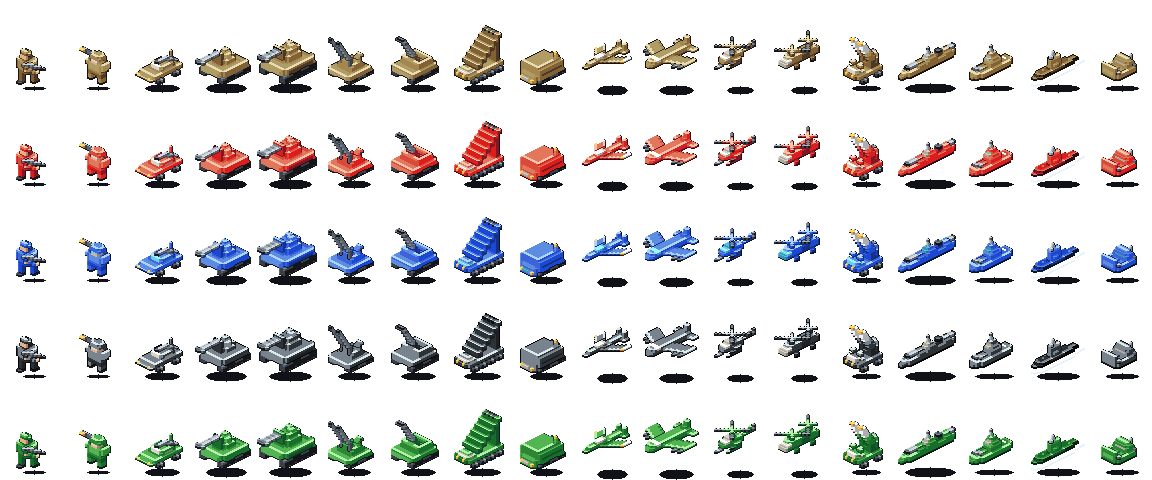
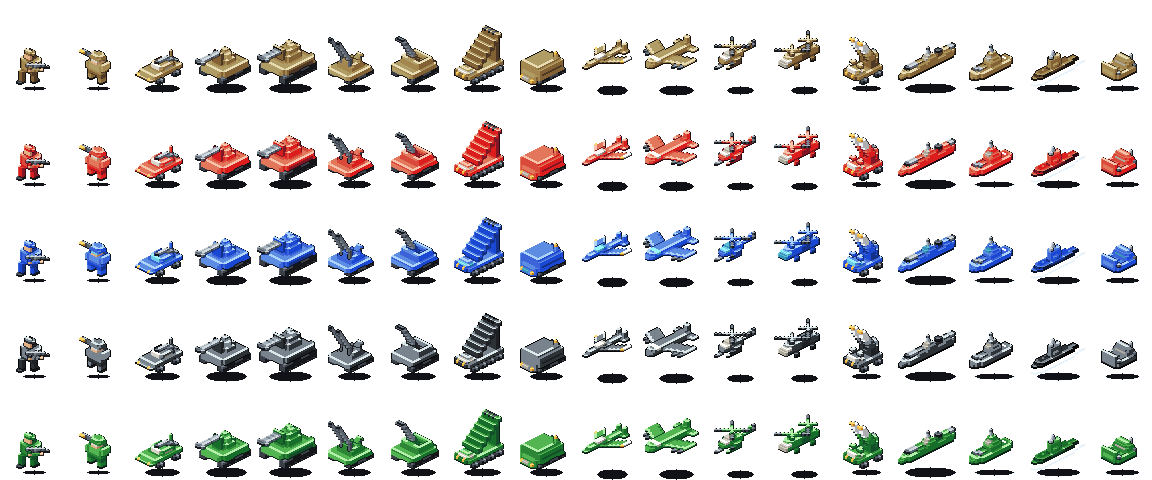
Give the two foot figures a whole-texel idle
The rifleman and the rocket trooper were the last sub-texel poses on the
sheet: a one-voxel muzzle ease and a one-voxel tube settle, worth half a
rung-1 texel each and measured at 2 changed silhouette texels. The rifleman
now leans his entire upper body — belt line up, rifle and both hands riding
the shoulders — one (dx +1, dy -1) step back over the trailing boot while
the boots and legs stay planted (2 -> 12 texels at rung 1), and the trooper's
left pauldron drops dz = -2 under its launcher (2 -> 7).

The rifleman leans instead of compressing because a dz = -2 on the same
assembly costs him 4 px of height and 64 opaque pixels, under the floors
his own read tests hold. Pose A is untouched, byte for byte.

AmbientFrames now asks the three-texel question of all ten land units
instead of the eight vehicles.

diff --git a/spritegen/units.py b/spritegen/units.py
@@ -217,6 +217,11 @@ def infantry(pose: Pose = Pose.A) -> Model:
     earlier draft put the sleeve and hands one screen row higher, where they
     ate the bottom of the bar, and the 4:1 sample lost the weapon entirely at
     two phases in sixteen.
+
+    Pose A is byte-frozen; pose B leans the whole upper body one board texel
+    over planted boots — 12 changed silhouette texels at rung 1 against the
+    2 the old rifle-only settle scored. See the branch below for why the lean
+    is diagonal rather than a drop.
     """
     m = Model()
     # Full stride: the boots are two voxels apart on BOTH axes, which opens a
@@ -281,17 +286,39 @@ def infantry(pose: Pose = Pose.A) -> Model:
     m.chamfer(2, 6, 4, 6, 15, 15)
     m.box(3, 5, 6, 6, 16, 16, "body")  # crest
     if pose is Pose.B:
-        # weight shifts onto the trailing boot and the muzzle eases down:
-        # barrel, muzzle, forward sleeve and forward hand all drop a voxel
-        # together, so the hold changes rather than the whole man sliding.
-        _shift(m, (9, 11, 3, 6, 9, 11), dz=-1)
+        # The beat is the man shifting his weight, and it is a WHOLE board
+        # texel. Everything from the belt line up — torso, both arms, the
+        # shoulder line, backpack, neck, head, helmet, crest, and the whole
+        # rifle line with both hands still on it — takes one `(dx +1, dy -1)`
+        # diagonal step while the boots and legs stay planted, which carries
+        # the weight back over the trailing boot: the figure leans as one
+        # body and the weapon travels with the shoulders rather than waggling
+        # on its own.
+        #
+        # The lean is along the diagonal rather than down the z axis on
+        # purpose. A `dz = -2` compression of the same assembly is the same
+        # one texel, but it costs the man his height and his mass: measured
+        # 33 px tall and 619 opaque against pose A's 37 and 683, which is
+        # under this sprite's own floor (`tests/test_infantry_read.py`
+        # MIN_HEIGHT 34, MIN_PIXELS 640). The diagonal step moves the same
+        # texel for free — 689 opaque in the same 37 px box.
+        #
+        # Rung-1 silhouette texels, pose A against pose B: 2 before (the old
+        # rifle-only one-voxel settle, half a texel and inside the shape),
+        # 12 now; rung 2 goes 8 -> 45 (`tests/measure_motion.py`).
+        _shift(m, (1, 11, 2, 8, 6, 16), dx=1, dy=-1)
     return m
 
 
 def mech(pose: Pose = Pose.A) -> Model:
     """Rocket trooper: planted wide stance, heavy pauldrons over a bulky
     torso, and a fat launch tube climbing forward over the left shoulder —
-    taller, wider and squarer than the rifleman's stride (rocket)."""
+    taller, wider and squarer than the rifleman's stride (rocket).
+
+    Pose B leans the loaded tube in a whole board texel: the left pauldron
+    and everything it carries ride `dz = -2`, measured at 7 changed
+    silhouette texels at rung 1 against the 2 the old one-voxel settle
+    scored."""
     m = Model()
     # wide planted stance, two-voxel-thick armoured legs
     for x0 in (1, 6):
@@ -327,9 +354,15 @@ def mech(pose: Pose = Pose.A) -> Model:
     m.set(1, 9, 16, "amber")
     m.box(1, 1, 5, 5, 9, 11, "hull")  # supporting arm
     if pose is Pose.B:
-        # the loaded tube leans in: the left pauldron takes its weight and
-        # compresses a voxel, the whole launcher and its arm coming with it
-        _shift(m, (0, 1, 2, 9, 9, 16), dz=-1)
+        # The loaded tube leans in and the left shoulder takes its weight,
+        # for a WHOLE board texel: pauldron first, then exhaust, tube, muzzle
+        # ring, warhead tips and the supporting arm, all `dz = -2` together —
+        # the pauldron leads so the launcher lands back on it rather than
+        # through it. The one-voxel settle this replaces was half a texel and
+        # stayed inside the shape: 2 changed silhouette texels at rung 1
+        # against 7 now, 15 -> 29 at rung 2 (`tests/measure_motion.py`).
+        _shift(m, (0, 0, 3, 6, 7, 8), dz=-2)  # left pauldron
+        _shift(m, (0, 1, 2, 9, 9, 16), dz=-2)  # launcher, arm, pauldron top
     return m
 
 

diff --git a/tests/measure_motion.py b/tests/measure_motion.py
@@ -27,15 +27,19 @@ it only re-tones, and at the edge it flips boundary texels with the sampling
 phase rather than moving them.
 
 Recorded on the red (meridian) row; livery changes the tones, not the shape.
-BEFORE is main at the 2026-08-23 land-idle pass, AFTER is that pass — the
-eight land vehicles re-authored to move a named sub-assembly a whole texel,
-and `units._track`'s link stripe given a period of eight voxels so pose B
-advances it four, one texel in the direction of travel:
+BEFORE is main at the 2026-08-23 land-idle pass, AFTER is that pass plus the
+2026-08-24 foot-figure one — the eight land vehicles re-authored to move a
+named sub-assembly a whole texel, `units._track`'s link stripe given a period
+of eight voxels so pose B advances it four (one texel in the direction of
+travel), and then the rifleman and the rocket trooper given whole-texel body
+beats of their own:
 
                      rung 1 (16x24)               rung 2 (32x48)
   unit         opaq  chng silh shim   |   opaq  chng silh shim
-  infantry       45     6    2  2.00  |    189    28    8  2.50
-  mech           49     7    2  2.50  |    202    26   15  0.73
+  infantry       45     6    2  2.00  |    189    28    8  2.50   before
+                 45    31   12  1.58  |    189   126   45  1.80   after
+  mech           49     7    2  2.50  |    202    26   15  0.73   before
+                 49    10    7  0.43  |    202    41   29  0.41   after
   recon          67    19    3  5.33  |    277    78   13  5.00   before
                  67    12    4  2.00  |    277    46   13  2.54   after
   tank           95     5    0  5.00  |    386    28    0 28.00   before
@@ -61,7 +65,7 @@ advances it four, one texel in the direction of travel:
   sub            60    43   24  0.79  |    252   177   96  0.84
   lander         58    46   18  1.56  |    216   188   72  1.61
   ALL          1367   544  216  1.52  |   5452  2209  856  1.58   before
-               1367   690  267  1.58  |   5452  2777 1053  1.64   after
+               1367   718  282  1.55  |   5452  2890 1104  1.62   after
 
 Before the pass the whole tracked family — tank, md tank, anti air,
 artillery, rockets, apc — moved nothing at either rung. Six of them crept a
@@ -71,7 +75,16 @@ is exactly Nyquist at the board's 4:1 sample: the pattern inverted rather than
 travelled. Rockets, missiles and recon settled a sub-assembly one voxel, which
 is 2 atlas px of dz, half a rung-1 texel, so it landed inside the shape too.
 
-What the eight move now is in each builder's docstring. Two of them are worth
+The two foot figures were the pass after that. Both were at 2 silhouette
+texels on a one-voxel hold — the rifleman easing his muzzle down, the trooper
+settling his launch tube — which is half a texel and reads as the sprite
+boiling. The rifleman now leans his ENTIRE upper body, belt line up, one
+`(dx +1, dy -1)` step over planted boots, rifle and both hands riding with the
+shoulders; a `dz = -2` compression moves the same texel but costs him 4 px of
+height and 64 opaque pixels, under the floors in `tests/test_infantry_read.py`.
+The trooper's shoulder and launcher drop `dz = -2` together.
+
+What each land unit moves is in its builder's docstring. Two of them are worth
 the reader's time here, because they are what the projection costs: the APC
 has no turret and no gun and a roof detail buries itself under the roof's own
 far edge, so its texel is the nose dipping; and the MBT's barrel is two voxels

diff --git a/tests/test_generated_output.py b/tests/test_generated_output.py
@@ -2354,24 +2354,16 @@ class AmbientFrames(unittest.TestCase):
                     atlas.unit_cell(uid, red, Pose.B).tobytes(),
                 )
 
-    # The eight land vehicles, measured at rung 1 by tests/measure_motion.py
-    # on 2026-08-24: apc 3, recon 4, tank 5, md_tank 6, artillery 7,
-    # anti_air 8, missiles 10, rockets 11. Three is the floor the quietest of
-    # them clears, and it is what an idle needs to be seen at board scale at
-    # all; the pass before this one had six of the eight at exactly zero.
+    # The ten land units, measured at rung 1 by tests/measure_motion.py on
+    # 2026-08-24: apc 3, recon 4, tank 5, md_tank 6, mech 7, artillery 7,
+    # anti_air 8, missiles 10, rockets 11, infantry 12. Three is the floor
+    # the quietest of them clears, and it is what an idle needs to be seen at
+    # board scale at all; the pass before the vehicles' had six of the eight
+    # at exactly zero, and the two foot figures held 2 each until they took
+    # their own whole-texel beat.
     MIN_SILHOUETTE_TEXELS = 3
-    VEHICLES = (
-        "recon",
-        "tank",
-        "md_tank",
-        "anti_air",
-        "artillery",
-        "rockets",
-        "apc",
-        "missiles",
-    )
 
-    def test_the_land_vehicles_move_a_whole_board_texel(self):
+    def test_the_land_units_move_a_whole_board_texel(self):
         """A beat the board cannot resample is not a beat.
 
         `test_every_unit_has_a_second_key_pose` only asks that frame B differ
@@ -2380,13 +2372,14 @@ class AmbientFrames(unittest.TestCase):
         rung 1 the cell is sampled to 16x24, so a delta under 4 atlas px
         re-tones the inside of a shape that holds still. This asks the
         question at the size the player sees — how many texels the two poses
-        disagree about being painted at all — for the eight vehicles that
-        each move one named sub-assembly a whole texel (dz of two voxels, or
-        a (dx +1, dy -1) diagonal). Infantry and mech are out: they are foot
-        figures whose pose B is a one-voxel hold, worth 2 texels of edge.
+        disagree about being painted at all — for every land unit, each of
+        which moves one named assembly a whole texel (dz of two voxels, or a
+        (dx +1, dy -1) diagonal). The two foot figures are in it now: the
+        rifleman leans his whole upper body, rifle and hands included, and
+        the rocket trooper's shoulder drops under its tube.
         """
         red = faction_by_key("red")
-        for uid in self.VEHICLES:
+        for uid in (u for u, (_, kind) in atlas.UNITS.items() if kind == "land"):
             a, b = (
                 atlas.unit_cell(uid, red, pose).resize((16, 24), Image.NEAREST)
                 for pose in (Pose.A, Pose.B)

diff --git a/README.md b/README.md
@@ -185,9 +185,15 @@ voxels, which is exactly Nyquist at the board's 4:1 sample and so inverted in
 place instead of travelling, and the rest settled a sub-assembly one voxel,
 half a texel. Each of the eight now moves one named sub-assembly a whole texel
 — a gun laid, a howitzer recoiled, a rack pitched, a nose dipped — and the
-tread's link stripe runs a period of eight so pose B advances it four.
-`AmbientFrames.test_the_land_vehicles_move_a_whole_board_texel` holds the
-floor at three changed silhouette texels at rung 1; the air and sea units,
+tread's link stripe runs a period of eight so pose B advances it four. The two
+foot figures followed: the rifleman leans his whole upper body, belt line up,
+one diagonal step over planted boots with his rifle and both hands riding the
+shoulders (2 -> 12 silhouette texels at rung 1), and the rocket trooper's left
+pauldron drops `dz = -2` under its launch tube (2 -> 7). The rifleman leans
+rather than compresses because a `dz = -2` on him costs 4 px of height and 64
+opaque pixels, below the floors his own read tests hold.
+`AmbientFrames.test_the_land_units_move_a_whole_board_texel` holds the floor at
+three changed silhouette texels at rung 1 for all ten; the air and sea units,
 whose pose B is their pose A translated by `atlas.BOB_PX`, clear it by moving
 every boundary texel they own.
 
